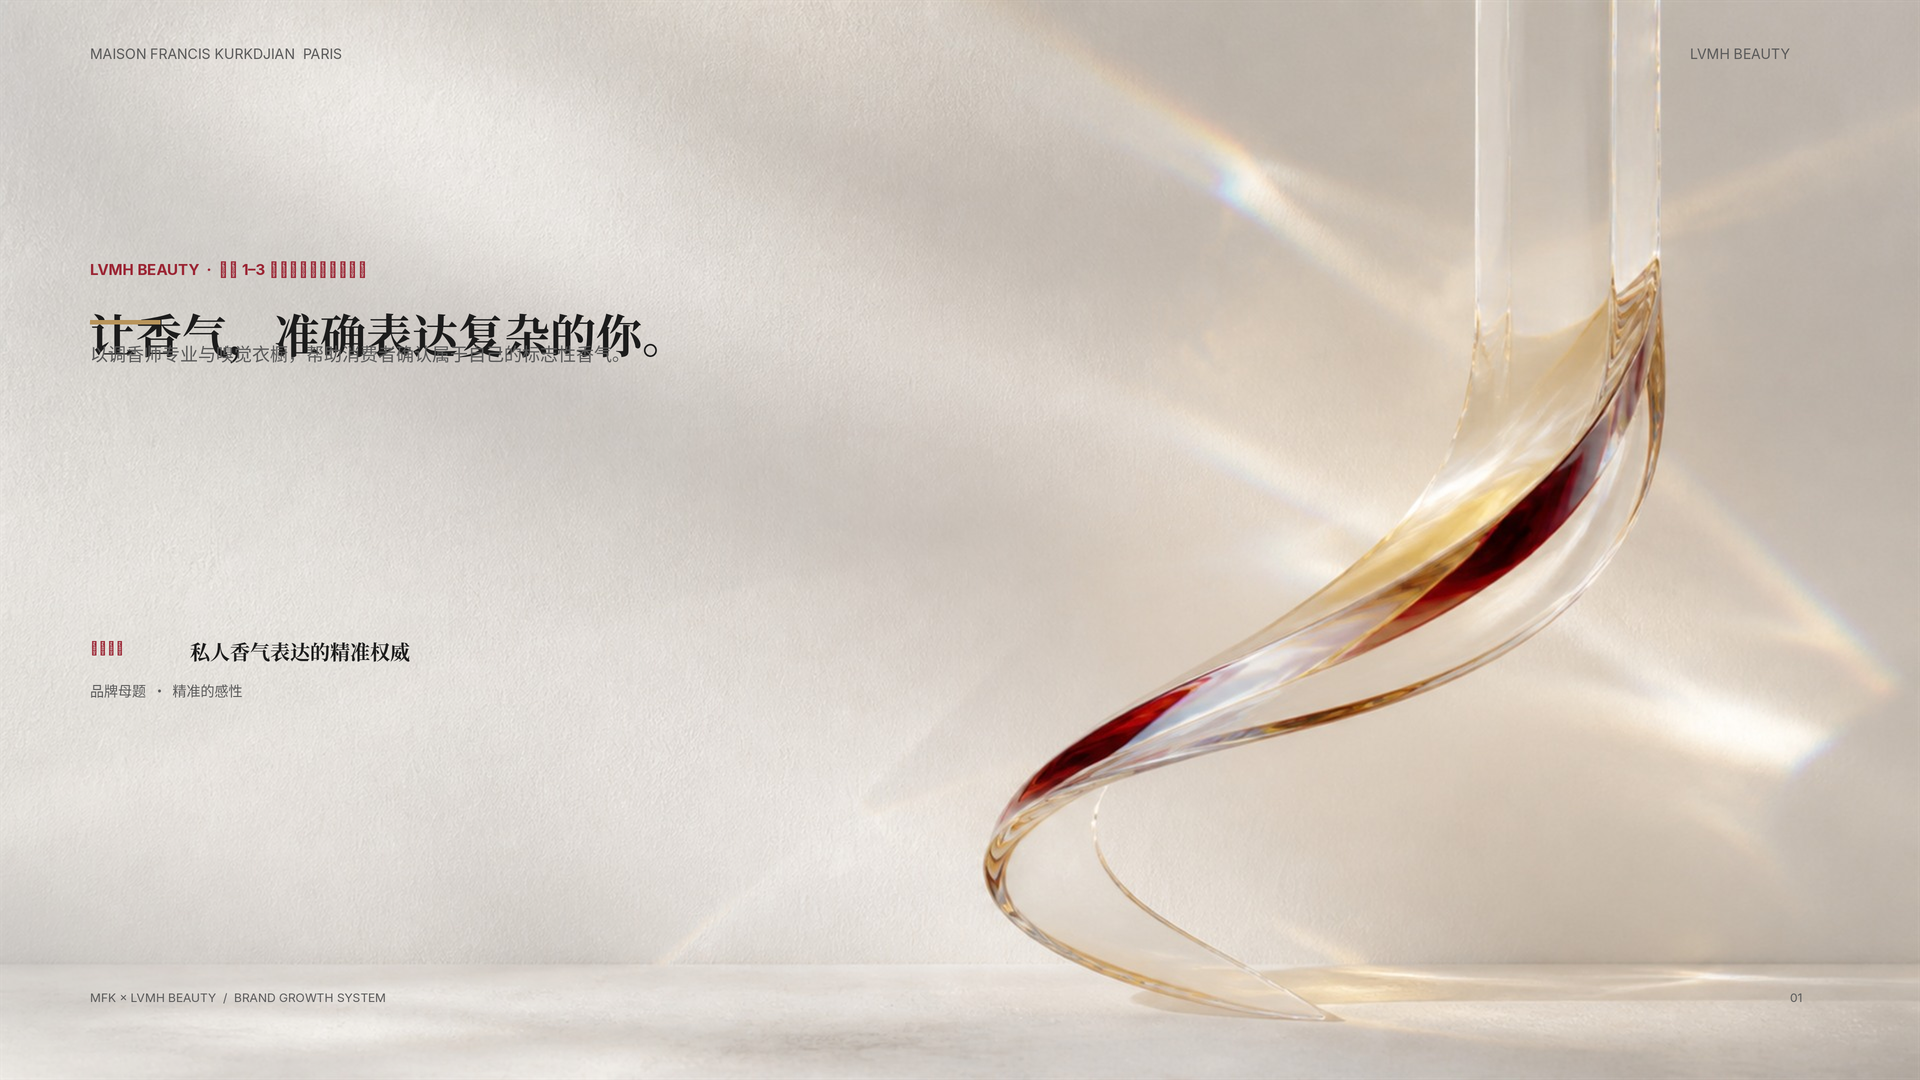
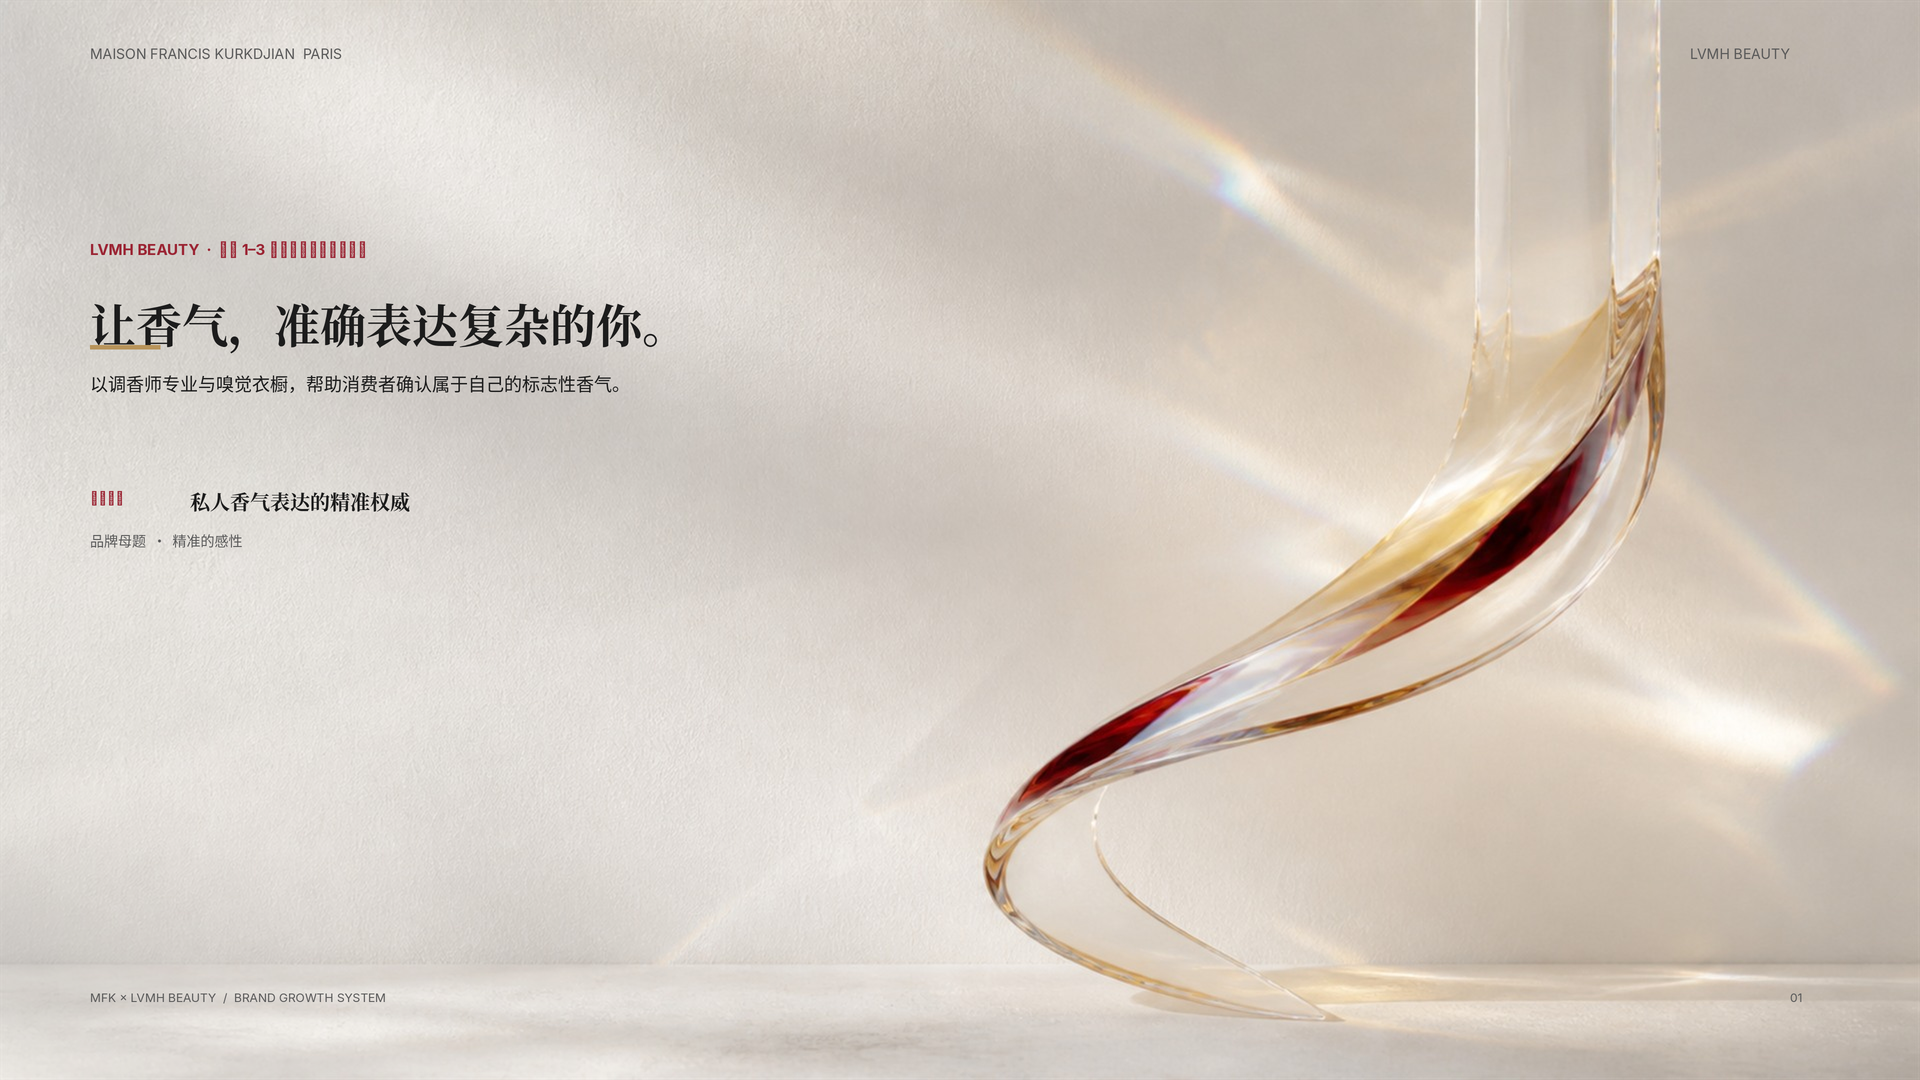
Fix cover underline overlap and raise text contrast.

diff --git a/mfk-slides/src/gen_cover.py b/mfk-slides/src/gen_cover.py
@@ -9,7 +9,7 @@ BG = Path("/home/ubuntu/.cursor/projects/workspace/assets/38a58645-eda5-4f5b-9a7
 W, H = 3840, 2160
 
 INK = (28, 28, 28)
-MUTED = (90, 90, 90)
+MUTED = (70, 70, 70)
 RED = (155, 36, 51)
 GOLD = (184, 148, 90)
 
@@ -72,41 +72,33 @@ def build():
 
     # eyebrow
     d.text(
-        (MX, 520),
+        (MX, 480),
         "LVMH BEAUTY  ·  未来 1–3 年香氛美学与体验创新",
         font=F["eyebrow"],
         fill=RED,
     )
 
     # hero — ONE line of brand promise as the cover signal
-    y = wrap(
-        d,
-        "让香气，准确表达复杂的你。",
-        (MX, 600),
-        F["hero"],
-        INK,
-        1750,
-        110,
-    )
+    hero = "让香气，准确表达复杂的你。"
+    d.text((MX, 580), hero, font=F["hero"], fill=INK)
+    # underline below full glyph height (~font size)
+    d.rectangle([MX, 580 + 110, MX + 140, 580 + 118], fill=GOLD)
 
-    # gold rule
-    d.rectangle([MX, y + 40, MX + 140, y + 48], fill=GOLD)
-
-    # one supporting sentence
+    # one supporting sentence — higher contrast
     wrap(
         d,
         "以调香师专业与嗅觉衣橱，帮助消费者确认属于自己的标志性香气。",
-        (MX, y + 80),
+        (MX, 740),
         F["support"],
-        MUTED,
+        INK,
         1680,
-        50,
+        52,
     )
 
     # ONE direction line (merged, not two competing lines)
-    d.text((MX, 1280), "战略方向", font=F["dir_label"], fill=RED)
-    d.text((MX + 200, 1272), "私人香气表达的精准权威", font=F["dir"], fill=INK)
-    d.text((MX, 1360), "品牌母题  ·  精准的感性", font=F["motif"], fill=MUTED)
+    d.text((MX, 980), "战略方向", font=F["dir_label"], fill=RED)
+    d.text((MX + 200, 972), "私人香气表达的精准权威", font=F["dir"], fill=INK)
+    d.text((MX, 1060), "品牌母题  ·  精准的感性", font=F["motif"], fill=MUTED)
 
     # footer
     d.text(
